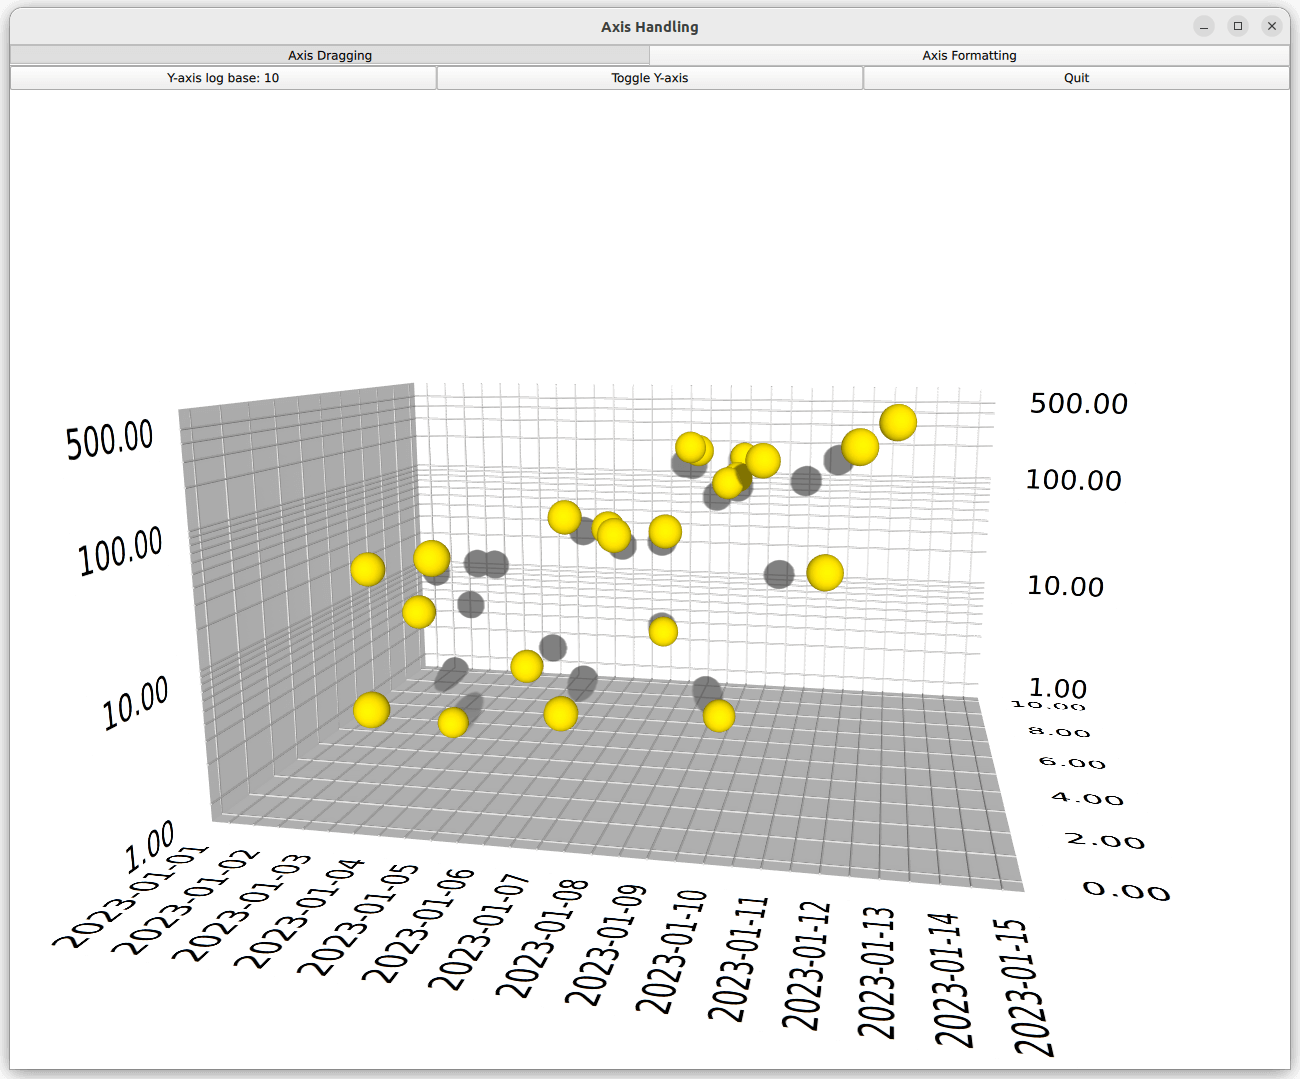
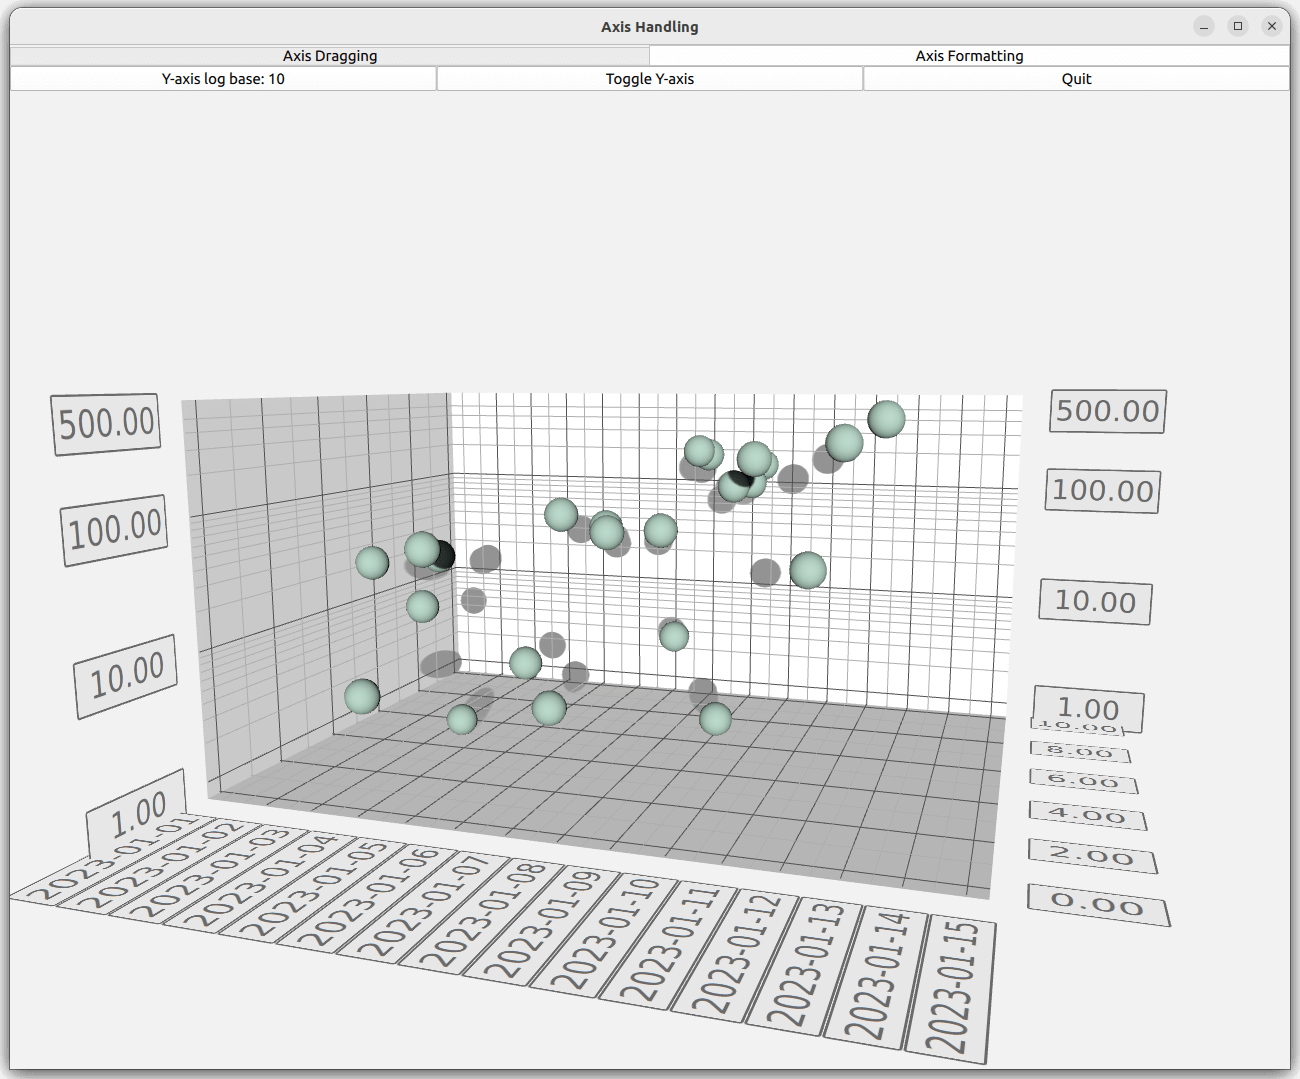
Re-theme Axis Handling example
Task-number: QTBUG-124883

Changed region(s): [[0.0, 0.0, 1.0, 1.0], [0.8, 0.5199, 0.8923, 0.5811], [0.8, 0.0612, 0.8615, 0.0918]]

diff --git a/examples/graphs/3d/axishandling/qml/axishandling/AxisDragging.qml b/examples/graphs/3d/axishandling/qml/axishandling/AxisDragging.qml
@@ -54,7 +54,7 @@ Item {
                 for (var i = 0; i < 10; i++)
                     appendRow();
                 if (graphModel.count > 2002) {
-                    scatterGraph.theme = isabelleTheme;
+                    scatterGraph.theme = orangeTheme;
                     isIncreasing = false;
                 }
             } else {
@@ -80,6 +80,7 @@ Item {
     GraphsTheme {
         id: dynamicColorTheme
         theme: GraphsTheme.Theme.QtGreen
+        colorScheme: Qt.Dark
         baseColors: [dynamicColor]
         labelFont.pointSize: 50
         labelBorderEnabled: true
@@ -88,8 +89,9 @@ Item {
     }
 
     GraphsTheme {
-        id: isabelleTheme
-        theme: GraphsTheme.Theme.QtGreenNeon
+        id: orangeTheme
+        theme: GraphsTheme.Theme.OrangeSeries
+        colorScheme: Qt.Dark
         labelFont.pointSize: 50
         labelBorderEnabled: true
         labelBackgroundColor: "gold"
